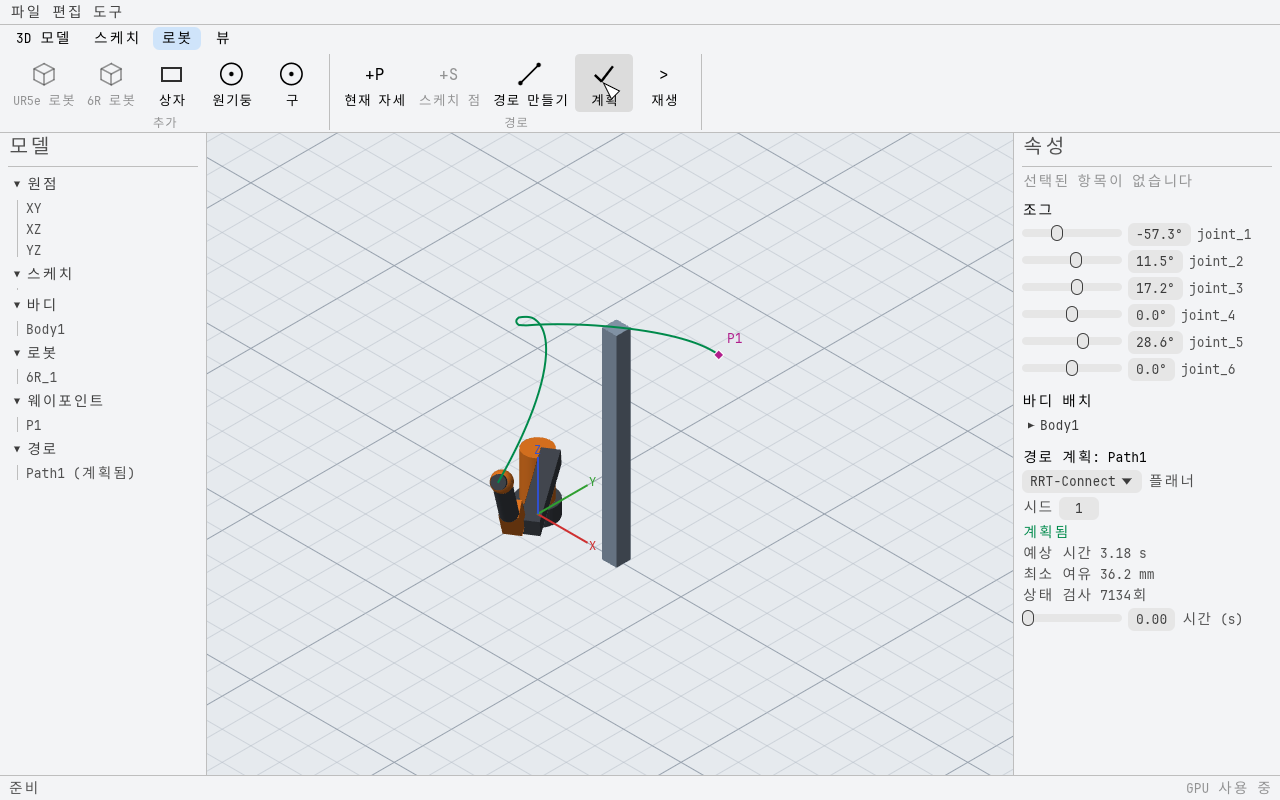
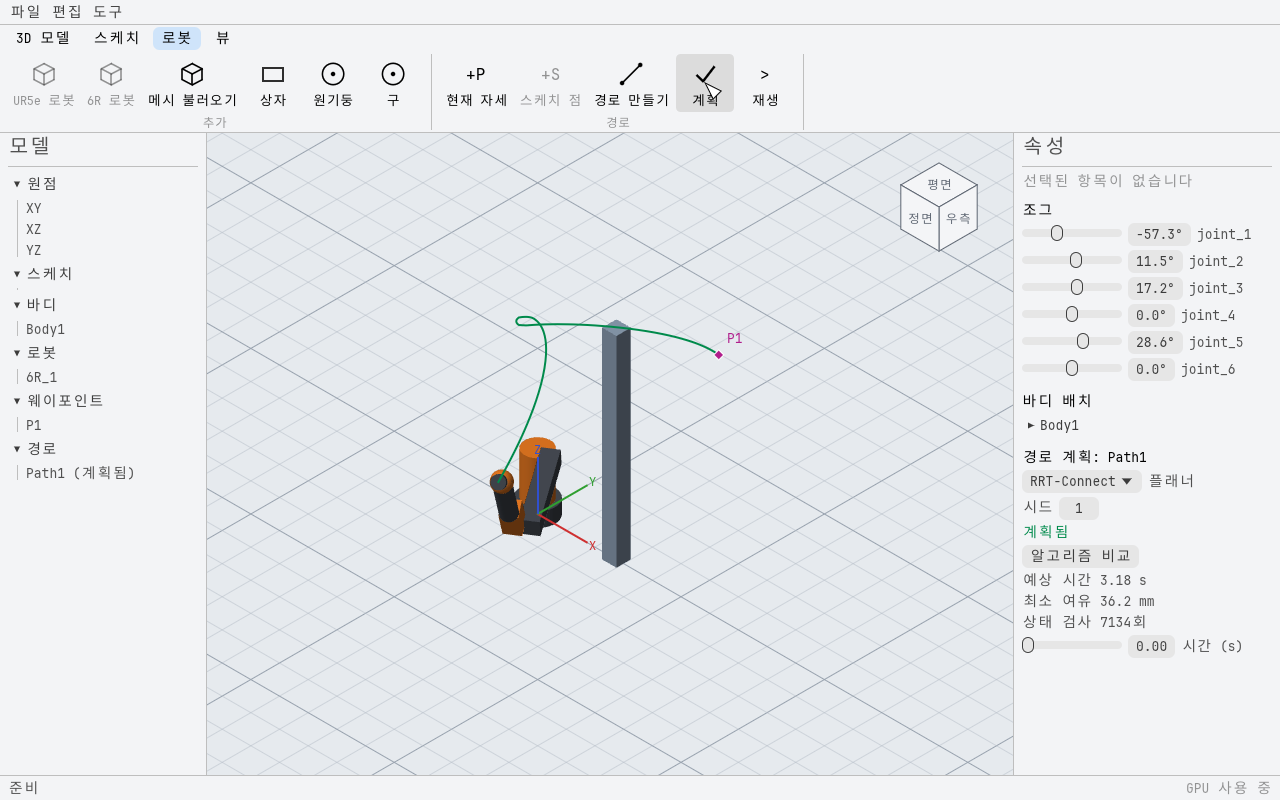
Compare the planners on a path
"Compare Planners" runs every planner on the path with five seeds each
(one run per seed) as a background job with progress and cancel, and
tabulates success count, median estimated time and median state
checks. Like a plan, the table is marked when the cell has changed
since it was computed.

Claude-Session: https://claude.ai/code/session_011W5REQbXjKYdGdNzYanvyp

Changed region(s): [[0.125, 0.0625, 0.5938, 0.1562], [0.7812, 0.6875, 0.9688, 0.8125], [0.6875, 0.2188, 0.7812, 0.3125]]

diff --git a/crates/domain/gc_session/src/cell.rs b/crates/domain/gc_session/src/cell.rs
@@ -163,6 +163,31 @@ impl PlannedPath {
     }
 }
 
+/// How one planner did on a path over several seeds.
+#[derive(Clone, Debug, PartialEq)]
+pub struct CompareRow {
+    /// Planner id (see [`PLANNERS`]).
+    pub planner: &'static str,
+    /// Seeds tried.
+    pub runs: usize,
+    /// Seeds for which a valid motion was found.
+    pub successes: usize,
+    /// Median estimated duration of the successful runs, seconds.
+    pub duration: Option<f64>,
+    /// Median joint-space cost of the successful runs.
+    pub cost: Option<f64>,
+    /// Median number of state checks per run.
+    pub state_checks: u64,
+}
+
+fn median(values: &mut [f64]) -> Option<f64> {
+    values.sort_by(f64::total_cmp);
+    values.get(values.len() / 2).copied()
+}
+
+/// A comparison being computed: the path, the fingerprint of its inputs and the job.
+type CompareJob = (Id<MotionPath>, String, JobHandle<Option<Vec<CompareRow>>>);
+
 /// How a path's plan relates to the document.
 #[derive(Clone, Copy, Debug, PartialEq, Eq)]
 pub enum PlanStatus {
@@ -200,6 +225,8 @@ type PlanJob = (Id<MotionPath>, String, JobHandle<Option<Result<PlannedPath, Str
 pub(crate) struct CellState {
     executor: Executor,
     job: Option<PlanJob>,
+    compare_job: Option<CompareJob>,
+    comparisons: BTreeMap<Id<MotionPath>, (String, Vec<CompareRow>)>,
     robots: BTreeMap<Id<Robot>, Arc<LoadedRobot>>,
     jog: Option<(Id<Robot>, Vec<f64>)>,
     body: Option<(Id<Body>, Body)>,
@@ -218,6 +245,8 @@ impl Default for CellState {
             // Jobs run to completion where they are started unless the application supplies threads.
             executor: Executor::inline(),
             job: None,
+            compare_job: None,
+            comparisons: BTreeMap::new(),
             robots: BTreeMap::new(),
             jog: None,
             body: None,
@@ -246,6 +275,7 @@ impl CellState {
             self.read_body_mesh(&body.solid);
         }
         self.plans.retain(|id, _| doc.get(*id).is_some());
+        self.comparisons.retain(|id, _| doc.get(*id).is_some());
         if self.jog.as_ref().is_some_and(|(id, _)| doc.get(*id).is_none()) {
             self.jog = None;
         }
@@ -623,7 +653,7 @@ impl Session {
         let job = self.cell.executor.spawn("plan", move |ctx| {
             let control = JobControl(ctx.cancel.clone());
             let result = match &loaded {
-                Some(loaded) => plan_path(&doc, loaded, &meshes, path, &control),
+                Some(loaded) => plan_path(&doc, loaded, &meshes, path, None, &control),
                 None => Err("the robot description could not be read".to_owned()),
             };
             (!ctx.cancel.is_cancelled()).then_some(result)
@@ -645,8 +675,86 @@ impl Session {
         }
     }
 
+    /// Runs every planner on a path with `seeds` different seeds each (one run per seed, no best-of) and
+    /// stores how they did. Like planning, this is a job; see [`Session::comparison`].
+    pub fn compare(&mut self, path: Id<MotionPath>, seeds: usize) {
+        self.end_jog();
+        self.cancel_comparison();
+        let Some(inputs) = self.plan_inputs(path) else { return };
+        let loaded = self.doc.get(path).and_then(|p| self.robot_model(p.robot)).cloned();
+        let doc = self.doc.clone();
+        let meshes = self.cell.meshes.clone();
+        let job = self.cell.executor.spawn("compare", move |ctx| {
+            let control = JobControl(ctx.cancel.clone());
+            let loaded = loaded?;
+            let mut rows = Vec::with_capacity(PLANNERS.len());
+            let total = (PLANNERS.len() * seeds.max(1)) as f32;
+            for (index, (planner, algorithm)) in PLANNERS.iter().enumerate() {
+                let (mut durations, mut costs, mut checks) = (Vec::new(), Vec::new(), Vec::new());
+                for seed in 0..seeds.max(1) {
+                    let strategy = Some((*algorithm, seed as u64, 1));
+                    if let Ok(planned) = plan_path(&doc, &loaded, &meshes, path, strategy, &control) {
+                        durations.push(planned.duration());
+                        costs.push(planned.segments.iter().map(|s| s.cost).sum());
+                        checks.push(planned.state_checks() as f64);
+                    }
+                    if ctx.cancel.is_cancelled() {
+                        return None;
+                    }
+                    ctx.progress.set((index * seeds.max(1) + seed + 1) as f32 / total);
+                }
+                #[allow(clippy::cast_possible_truncation, clippy::cast_sign_loss, reason = "a count")]
+                let state_checks = median(&mut checks).unwrap_or(0.0) as u64;
+                rows.push(CompareRow {
+                    planner,
+                    runs: seeds.max(1),
+                    successes: durations.len(),
+                    duration: median(&mut durations),
+                    cost: median(&mut costs),
+                    state_checks,
+                });
+            }
+            Some(rows)
+        });
+        self.cell.compare_job = Some((path, inputs, job));
+        self.poll_jobs();
+    }
+
+    /// How far the running comparison is, from 0 to 1; `None` when none is running.
+    pub fn comparison_progress(&self) -> Option<f32> {
+        self.cell.compare_job.as_ref().map(|(_, _, job)| job.progress())
+    }
+
+    /// Stops the running comparison.
+    pub fn cancel_comparison(&mut self) {
+        if let Some((_, _, job)) = self.cell.compare_job.take() {
+            job.cancel();
+        }
+    }
+
+    /// The last comparison of a path and whether it still matches the document.
+    pub fn comparison(&self, path: Id<MotionPath>) -> Option<(&[CompareRow], bool)> {
+        let (inputs, rows) = self.cell.comparisons.get(&path)?;
+        Some((rows, self.plan_inputs(path).as_ref() == Some(inputs)))
+    }
+
     /// Collects finished background work. Returns true when something arrived. Call once per frame.
     pub fn poll_jobs(&mut self) -> bool {
+        let mut arrived = false;
+        if let Some((path, inputs, mut job)) = self.cell.compare_job.take() {
+            match job.poll() {
+                None => self.cell.compare_job = Some((path, inputs, job)),
+                Some(JobOutcome::Done(Some(rows))) => {
+                    self.cell.comparisons.insert(path, (inputs, rows));
+                    arrived = true;
+                }
+                Some(JobOutcome::Done(None) | JobOutcome::Failed(_)) => arrived = true,
+            }
+        }
+        arrived | self.poll_plan()
+    }
+
+    fn poll_plan(&mut self) -> bool {
         let Some((path, inputs, mut job)) = self.cell.job.take() else { return false };
         let outcome = match job.poll() {
             None => {
@@ -674,21 +782,29 @@ impl Session {
     }
 }
 
-/// Plans a path of `doc` from its robot's current joint values through its waypoints.
+/// Plans a path of `doc` from its robot's current joint values through its waypoints, with the path's own
+/// planner and seed or with the given algorithm, seed and number of runs.
 fn plan_path(
     doc: &Document,
     loaded: &LoadedRobot,
     meshes: &BTreeMap<String, MeshRef>,
     path_id: Id<MotionPath>,
+    strategy: Option<(Algorithm, u64, usize)>,
     control: &dyn Control,
 ) -> Result<PlannedPath, String> {
     let path = doc.get(path_id).ok_or("the path no longer exists")?;
     let robot = doc.get(path.robot).ok_or("the robot no longer exists")?;
-    let algorithm = PLANNERS
-        .iter()
-        .find(|(id, _)| *id == path.planner)
-        .map(|(_, algorithm)| *algorithm)
-        .ok_or_else(|| format!("unknown planner `{}`", path.planner))?;
+    let (algorithm, seed, runs) = match strategy {
+        Some(strategy) => strategy,
+        None => {
+            let algorithm = PLANNERS
+                .iter()
+                .find(|(id, _)| *id == path.planner)
+                .map(|(_, algorithm)| *algorithm)
+                .ok_or_else(|| format!("unknown planner `{}`", path.planner))?;
+            (algorithm, path.seed, 4)
+        }
+    };
     let mut obstacles = Vec::new();
     for (_, body) in doc.bodies().iter() {
         // An obstacle that cannot be checked must not be planned through as if it were not there.
@@ -722,8 +838,8 @@ fn plan_path(
             goal,
             algorithm,
             options: Options::default(),
-            seed: path.seed,
-            runs: 4,
+            seed,
+            runs,
             max_acc: vec![robot.max_acc; start.len()],
         };
         let plan = plan_motion(&scene, &request, control).map_err(|e| format!("{}: {e}", waypoint.name))?;

diff --git a/crates/ui/gc_panels/src/cell.rs b/crates/ui/gc_panels/src/cell.rs
@@ -182,6 +182,7 @@ fn paths(ui: &mut Ui, session: &mut Session, lang: Lang, state: &mut CellUi) {
     if let Some(error) = session.plan_error(path_id) {
         ui.colored_label(colors::ERROR, error);
     }
+    comparison(ui, session, lang, path_id);
     let Some(planned) = session.planned(path_id) else {
         state.playing = false;
         return;
@@ -217,4 +218,47 @@ fn paths(ui: &mut Ui, session: &mut Session, lang: Lang, state: &mut CellUi) {
     if state.playing || (time - before).abs() > 1e-9 || session.playback().is_some() {
         session.set_playback(Some((path_id, time)));
     }
+}
+
+/// The planner comparison of a path: a button to run it, its progress, and the table.
+fn comparison(ui: &mut Ui, session: &mut Session, lang: Lang, path: gc_core::Id<gc_doc::MotionPath>) {
+    match session.comparison_progress() {
+        Some(progress) => {
+            ui.horizontal(|ui| {
+                ui.add(egui::ProgressBar::new(progress).desired_width(120.0));
+                if ui.button(tr!(lang, Cancel)).clicked() {
+                    session.cancel_comparison();
+                }
+            });
+            ui.ctx().request_repaint_after(std::time::Duration::from_millis(100));
+        }
+        None => {
+            if ui.button(tr!(lang, CmdCompare)).clicked() {
+                session.compare(path, 5);
+            }
+        }
+    }
+    let Some((rows, current)) = session.comparison(path) else { return };
+    if !current {
+        ui.weak(tr!(lang, CompareStale));
+    }
+    egui::Grid::new(("gc_comparison", path.raw())).striped(true).show(ui, |ui| {
+        for title in
+            [tr!(lang, PropPlanner), tr!(lang, ColSuccess), tr!(lang, ColDuration), tr!(lang, ColChecks)]
+        {
+            ui.label(RichText::new(title).strong());
+        }
+        ui.end_row();
+        for row in rows {
+            let name = PLANNERS
+                .iter()
+                .position(|(id, _)| *id == row.planner)
+                .map_or(row.planner, |i| PLANNER_NAMES[i]);
+            ui.label(name);
+            ui.label(format!("{}/{}", row.successes, row.runs));
+            ui.label(row.duration.map_or_else(|| "-".to_owned(), |d| format!("{d:.2}")));
+            ui.label(row.state_checks.to_string());
+            ui.end_row();
+        }
+    });
 }

diff --git a/crates/domain/gc_session/tests/cell.rs b/crates/domain/gc_session/tests/cell.rs
@@ -193,3 +193,35 @@ fn equipment_from_a_mesh_file_is_an_obstacle() {
     assert!(error.contains("nothing.stl"), "{error}");
     assert_eq!(session.doc().bodies().len(), 1);
 }
+
+#[test]
+fn planners_are_compared_over_several_seeds() {
+    let mut session = Session::new();
+    let robot = session.add_robot("Robot1", &six_axis()).unwrap();
+    session.jog(robot, &RIGHT);
+    session.end_jog();
+    let right = session.add_waypoint_here(robot).unwrap();
+    session.jog(robot, &LEFT);
+    session.end_jog();
+    let pillar = Solid::Box { size: [0.1, 0.1, 1.4] };
+    session.add_body(pillar, Placement { xyz: [0.55, 0.0, 0.7], rpy: [0.0; 3] }).unwrap();
+    let path = session.add_path(robot, vec![right]).unwrap();
+    assert!(session.comparison(path).is_none());
+
+    session.compare(path, 2);
+    let (rows, current) = session.comparison(path).unwrap();
+    assert!(current);
+    assert_eq!(rows.iter().map(|r| r.planner).collect::<Vec<_>>(), gc_session::PLANNERS.map(|(id, _)| id));
+    let connect = &rows[0];
+    assert_eq!((connect.runs, connect.successes), (2, 2), "RRT-Connect gets around the pillar every time");
+    assert!(connect.duration.unwrap() > 1.4 && connect.cost.unwrap() > 0.0 && connect.state_checks > 0);
+    // The same comparison again gives the same numbers.
+    let first = rows.to_vec();
+    session.compare(path, 2);
+    assert_eq!(session.comparison(path).unwrap().0, first.as_slice());
+
+    // It goes out of date with the document, like a plan.
+    session.jog(robot, &[-0.8, 0.2, 0.3, 0.0, 0.5, 0.0]);
+    session.end_jog();
+    assert!(!session.comparison(path).unwrap().1);
+}

diff --git a/crates/app/gc_app/tests/shell.rs b/crates/app/gc_app/tests/shell.rs
@@ -206,6 +206,13 @@ fn a_robot_path_is_planned_through_the_ribbon() {
     harness.get_by_label("Path1 (계획됨)");
     assert!(harness.query_all_by_label("joint_1").count() >= 1, "the jog sliders are shown");
 
+    // The comparison runs every planner and lists them.
+    harness.get_by_label("알고리즘 비교").click();
+    harness.run();
+    let (rows, current) = harness.state().session.comparison(path).unwrap();
+    assert!(current && rows.len() == 5 && rows[0].successes == rows[0].runs);
+    harness.get_by_label("Informed RRT*");
+
     // Playing advances the shown robot along the motion without touching the document.
     let revision = harness.state().session.doc().revision();
     harness.get_by_label("재생").click();
@@ -261,7 +268,9 @@ fn robot_cell_renders_with_gpu() {
     }
     assert!(dark > 500 && orange > 500, "dark {dark}, orange {orange}");
 
-    // Half-way through the motion, in perspective.
+    // Half-way through the motion, with the planner comparison in the side panel.
+    harness.get_by_label("알고리즘 비교").click();
+    harness.run();
     let app = harness.state_mut();
     let path = app.session.doc().paths().iter().next().unwrap().0;
     let duration = app.session.planned(path).unwrap().duration();

diff --git a/crates/foundation/gc_i18n/src/lib.rs b/crates/foundation/gc_i18n/src/lib.rs
@@ -326,6 +326,16 @@ messages! {
     ViewLeft => ("좌측", "Left"),
     /// View cube face: bottom.
     ViewBottom => ("저면", "Bottom"),
+    /// Command: run every planner on the path and tabulate the results.
+    CmdCompare => ("알고리즘 비교", "Compare Planners"),
+    /// Comparison table column: successful runs out of all runs.
+    ColSuccess => ("성공", "Success"),
+    /// Comparison table column: median estimated duration.
+    ColDuration => ("시간 s", "Time s"),
+    /// Comparison table column: median state checks.
+    ColChecks => ("검사 수", "Checks"),
+    /// Comparison note: computed for an earlier state of the cell.
+    CompareStale => ("이전 상태 기준 결과", "Computed for an earlier state"),
     /// Plan status: being computed.
     PlanPlanning => ("계획 중...", "Planning..."),
     /// Plan status: up to date.

diff --git a/crates/domain/gc_session/src/lib.rs b/crates/domain/gc_session/src/lib.rs
@@ -16,7 +16,7 @@ mod cell;
 use std::collections::BTreeSet;
 use std::path::{Path, PathBuf};
 
-pub use cell::{LoadedRobot, MeshRef, PADDING, PLANNERS, PlanStatus, PlannedPath, Resources};
+pub use cell::{CompareRow, LoadedRobot, MeshRef, PADDING, PLANNERS, PlanStatus, PlannedPath, Resources};
 use gc_core::{Id, Revision};
 use gc_doc::{Applied, Command, Created, Document, EditError, History, Sketch, SketchOp, apply};
 pub use gc_persist::PersistError;
